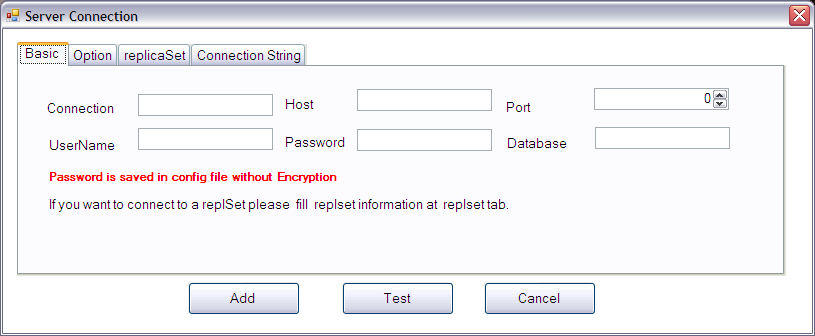
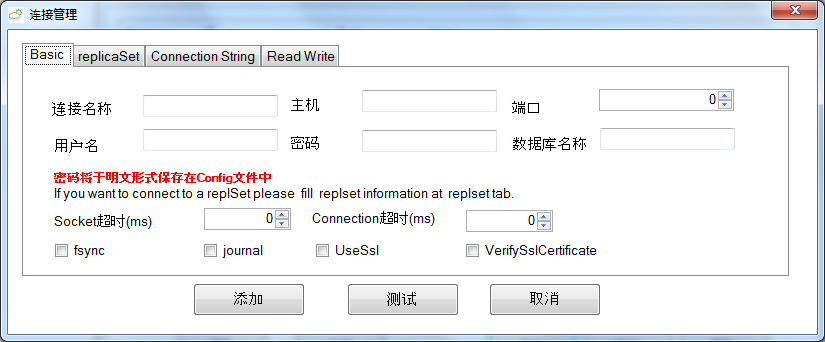
中文Guide撰写 20140417

diff --git a/UserGuide/Chinese/FirstStep.html b/UserGuide/Chinese/FirstStep.html
@@ -45,9 +45,8 @@
             <tr>
                 <td />
                 <td>
-                    <font size="3">The first thing to operate the mongoDB is adding a MongoDB connection.<br />
-                        Please make sure that the mongo server has been startup before adding connection.<br />
-                        You can startup mongoDB by DOS console like this:<br />
+                    <font size="3">接下来我们来启动一个MongoDB数据库:<br />
+                       （这里假设你将可执行文件放在　C:\runmongo\bin）<br />
                         <br />
                         <code>cd C:\runmongo\bin<br />
                             mkdir C:\mongodb\magicdict<br />
@@ -62,39 +61,37 @@
                         [A Mongo connection is not only a single server,but also a replset,a route or config
                         server in sharding system]<br />
                         <br />
-                        Open the Connection Manager form by menu:<br />
-                        Managerment -> Connection Manager:<br />
+                        打开连接管理窗体:<br />
+                        菜单项：管理 -> 添加连接:<br />
                         <br />
-                        <img src="images/ConnectionManager.PNG" alt="" />
+                        <img src="images/ConnectionManager_Empty.PNG" alt="" />
                         <br />
                         <br />
-                        This form will list up all connections that you has registered in the application.<br />
-                        The list is empty when the first time you use this application,.<br />
-                        Click "Add" to register a new connection.<br />
+                        这里将会列出所有已经在软件中添加过的连接<br />
+                        如果是第一次运行软件，这个列表将是空的.<br />
+                        点击“添加”来新建一个连接<br />
                         <br />
                         <img src="images/ServerConnection.PNG" alt="" />
                         <br />
                         <br />
-                        The simplest connection only need to fill 3 fields<br />
+                        你可以只输入三个项目<br />
                         <ul>
-                            <li>Connection(you can name the connection as you like)</li>
-                            <li>Host(the ip or host of server,you can fill ‘localhost’ when the server on you local
-                                machine)</li>
-                            <li>Port(the port of server, --port arg)</li>
+                            <li>连接名称(你可以按照自己的喜好命名)</li>
+                            <li>主机(主机的ＩＰ地址，也可以用‘localhost’表示本地)</li>
+                            <li>段口号</li>
                         </ul>
                         <img src="images/ServerConnection_Magicdict.PNG" alt="" />
                         <br />
                         <br />
-                        Pick the connection you registered right now, then click "OK".Now you can operate
-                        the mongo server.<br />
-                        <font color="red"><b>All Status need to be refreshed manually in Mainform.(In status form,the some status will refresh automaticlly)</b>
+                        选中Magicdict,点击确定按钮<br />
+                        <font color="red"><b>左边的数据库对象需要手动更新，右边的服务器状态默认自动更新</b>
                         </font>
                         <br />
                         <br />
-                        You can collapse or expansion the treeview by MenuItem:
+                        你可以折叠或者收起数据库对象的树型结构:
                         <ul>
-                            <li>Management -> collapse</li>
-                            <li>Management -> expansion</li>
+                            <li>菜单项：管理 -> 展开:</li>
+                            <li>菜单项：管理 -> 收起:</li>
                         </ul>
                         <img alt="" src="images/Main_MagicDict.PNG" />
                         <br />
